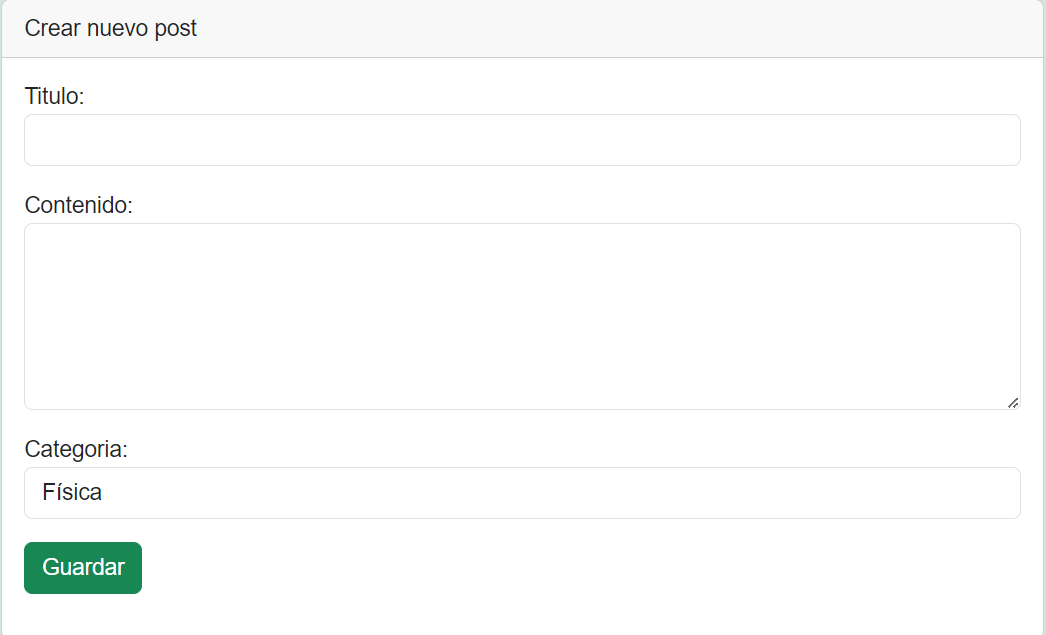
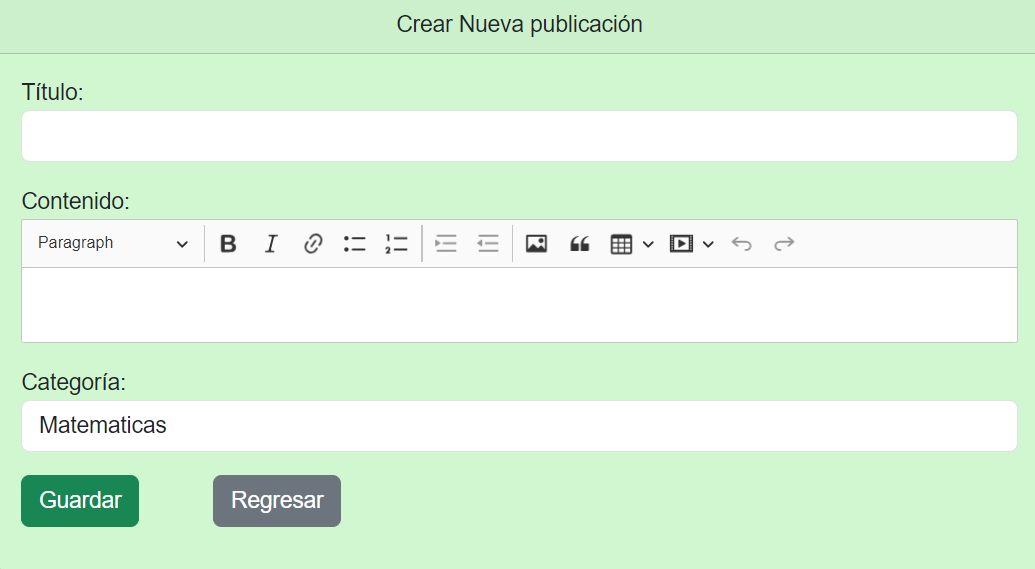
:art:

diff --git a/resources/views/home.blade.php b/resources/views/home.blade.php
@@ -3,81 +3,81 @@
 @section('content')
 <div class="container">
     <div class="row justify-content-center">
-        <div class="col-md-9">
+        <div class="col-md-12">
             <div class="card">
                 <div class="card-header">{{ __('Panel') }}</div>
 
-                    <div class="card-body">
-                        @if (session('status'))
-                            <div class="alert alert-success" role="alert">
-                                {{ session('status') }}
-                            </div>
-                        @endif
+                <div class="card-body">
+                    @if (session('status'))
+                        <div class="alert alert-success" role="alert">
+                            {{ session('status') }}
+                        </div>
+                    @endif
 
-                        <h1 class="text-center"><b>{{ __('Bienvenido') }}</b></h1>
-                    </div>
+                    <h1 class="text-center"><b>{{ __('Bienvenido') }}</b></h1>
+                </div>
 
-                
-                    <div class="form-group">
-                        <h3 class="text-center">Ingresa a la vista que deseas</h3>
-                            <div class="row">
-                                <div class="col-md-6">
-                                    <div class="card mb-2 mx-1">
-                                        <img src="{{ asset('images/crear.jpg') }}" class="card-img-top" alt="imagen vista crear">
-                                        <div class="card-header">
-                                            Crear categoria
-                                        </div>
-                                        <div class="card-body">
-                                        <p class="card-text">Ingresa para crear y guardar la categoria deseada.</p>
-                                            <a href="{{ route('categories.create') }}" class="btn btn-primary">Ingresar</a>
-                                        </div>
+                <div class="form-group">
+                    <h3 class="text-center">Ingresa a la vista que deseas</h3>
+                    <!-- Agregue un contenedor para aplicar el margen -->
+                    <div class="mx-4"> 
+                        <div class="row">
+                            <div class="col-md-6 mb-3">
+                                <div class="card">
+                                    <img src="{{ asset('images/crear.png') }}" class="card-img-top" alt="imagen vista crear">
+                                    <div class="card-header">
+                                        Crear categoría
                                     </div>
-                                </div>
-
-                                <div class="col-md-6">
-                                    <div class="card mb-2 mx-1">
-                                        <img src="{{ asset('images/index.jpg') }}" class="card-img-top" alt="imagen vista index">
-                                        <div class="card-header">
-                                            Lista de categorias
-                                        </div>
-                                        <div class="card-body">
-                                            <p class="card-text">Ingresa y visualiza las categorias creadas.</p>
-                                            <a href="{{ route('categories.index') }}" class="btn btn-primary">Ingresar</a>
-                                        </div>
+                                    <div class="card-body">
+                                        <p class="card-text">Ingresa para crear y guardar la categoría deseada.</p>
+                                        <a href="{{ route('categories.create') }}" class="btn btn-primary">Ingresar</a>
                                     </div>
                                 </div>
                             </div>
 
-                            <div class="row">
-                                <div class="col-md-6">
-                                     <div class="card mb-2 mx-2">
-                                        <img src="{{ asset('images/pcrear.png') }}" class="card-img-top" alt="imagen vista post crear">
-                                        <div class="card-header">
-                                            Crear publicacion
-                                        </div>
-                                        <div class="card-body">
-                                            <p class="card-text">Ingresa y crea una plublicación a la categoria deseada.</p>
-                                            <a href="{{ route('posts.create') }}" class="btn btn-primary">Ingresar</a>
-                                        </div>
+                            <div class="col-md-6 mb-3">
+                                <div class="card">
+                                    <img src="{{ asset('images/index.png') }}" class="card-img-top" alt="imagen vista index">
+                                    <div class="card-header">
+                                        Lista de categorías
+                                    </div>
+                                    <div class="card-body">
+                                        <p class="card-text">Ingresa y visualiza las categorías creadas.</p>
+                                        <a href="{{ route('categories.index') }}" class="btn btn-primary">Ingresar</a>
+                                    </div>
+                                </div>
+                            </div>
+                        </div>
+
+                        <div class="row">
+                            <div class="col-md-6 mb-3">
+                                <div class="card">
+                                    <img src="{{ asset('images/pcrear.png') }}" class="card-img-top" alt="imagen vista post crear">
+                                    <div class="card-header">
+                                        Crear publicación
+                                    </div>
+                                    <div class="card-body">
+                                        <p class="card-text">Ingresa y crea una publicación en la categoría deseada.</p>
+                                        <a href="{{ route('posts.create') }}" class="btn btn-primary">Ingresar</a>
                                     </div>
                                 </div>
                             </div>
 
-                            <div class="col-md-6">
-                                 <div class="card mb-2 mx-1">
+                            <div class="col-md-6 mb-3">
+                                <div class="card">
                                     <img src="{{ asset('images/pindex.png') }}" class="card-img-top" alt="imagen vista post crear">
                                     <div class="card-header">
                                         Lista de publicaciones
                                     </div>
                                     <div class="card-body">
-                                        <p class="card-text">Ingresa y visualiza la lista de publicaciones que tienen las diferentes categorias.</p>
+                                        <p class="card-text">Ingresa y visualiza la lista de publicaciones en las diferentes categorías.</p>
                                         <a href="{{ route('posts.index') }}" class="btn btn-primary">Ingresar</a>
                                     </div>
-                                 </div>
+                                </div>
                             </div>
-                         </div>
+                        </div>
                     </div>
-                </div>   
+                </div>
             </div>
         </div>
     </div>

diff --git a/resources/views/posts/show.blade.php b/resources/views/posts/show.blade.php
@@ -2,21 +2,36 @@
 
 @section('content')
 <div class="container">
-    <h1>{{ $post->title }}</h1>
-    <td>{!! html_entity_decode($post->content) !!}</td>
-    @if ($post->category)
-            <p>Categoría: {{ $post->category->category_name }}</p>
-        @else
-            <p>Este post no tiene una categoría asignada.</p>
-        @endif
-    <p>Fecha de creación: {{ $post->created_at }}</p>
-    <p>Fecha de actualización: {{ $post->updated_at }}</p>
-    <a href="{{ route('posts.edit', $post->id) }}" class="btn btn-primary mb-3">Editar</a>
-    <form action="{{ route('posts.destroy', $post->id) }}" method="POST">
-        @csrf
-        @method('DELETE')
-        <button type="submit" class="btn btn-danger mb-3">Eliminar</button>
-        <a href="{{ route('posts.index') }}" class="btn btn-secondary mx-5 mb-3">Regresar</a>
-    </from>
+    <div class="card" style="background-color: #d1f7d1;">
+        <div class="card-header">
+            <h1 class="card-title">{{ $post->title }}</h1>
+        </div>
+        <div class="card-body">
+            <p class="card-text">{!! html_entity_decode($post->content) !!}</p>
+            <hr>
+            <div class="row">
+                <div class="col-md-6">
+                    @if ($post->category)
+                        <p><strong>Categoría:</strong> {{ $post->category->category_name }}</p>
+                    @else
+                        <p><strong>Categoría:</strong> Este post no tiene una categoría asignada.</p>
+                    @endif
+                </div>
+                <div class="col-md-6 text-md-end">
+                    <p><strong>Fecha de creación:</strong> {{ $post->created_at }}</p>
+                    <p><strong>Fecha de actualización:</strong> {{ $post->updated_at }}</p>
+                </div>
+            </div>
+        </div>
+        <div class="card-footer d-flex justify-content-start align-items-center">
+            <a href="{{ route('posts.index') }}" class="btn btn-secondary me-2">Regresar</a>
+            <a href="{{ route('posts.edit', $post->id) }}" class="btn btn-primary me-2">Editar</a>
+            <form action="{{ route('posts.destroy', $post->id) }}" method="POST">
+                @csrf
+                @method('DELETE')
+                <button type="submit" class="btn btn-danger">Eliminar</button>
+            </form>
+        </div>
+    </div>
 </div>
 @endsection

diff --git a/resources/views/layouts/app.blade.php b/resources/views/layouts/app.blade.php
@@ -2,7 +2,7 @@
 <html lang="en">
 <head>
     <meta charset="UTF-8">
-    <link href="{{ asset('images/logo.jpeg') }}" rel="logo"/>
+    <link rel="shortcut icon" href="{{ asset('images/logo.jpeg') }}" type="image/jpeg">
     <meta name="viewport" content="width=device-width, initial-scale=1.0">
     <meta http-equiv="X-UA-Compatible" content="ie=edge">
 
@@ -16,7 +16,7 @@
         .container{
             margin-top: 50px;
             margin-bottom: 50px;
-            background-color: #d1e7dd;
+            background-color: #aed9ae;
         }
     </style>
     <script src="https://cdn.ckeditor.com/ckeditor5/23.0.0/classic/ckeditor.js"></script>
@@ -57,7 +57,7 @@
                         @else
                             <li class="nav-item dropdown">
                                 <a id="navbarDropdown" class="nav-link dropdown-toggle" href="#" role="button" data-bs-toggle="dropdown" aria-haspopup="true" aria-expanded="false" v-pre>
-                                    {{ Auth::user()->name }}
+                                    {{ Auth::user()->name }} {{ Auth::user()->lastname }}
                                 </a>
 
                                 <div class="dropdown-menu dropdown-menu-end" aria-labelledby="navbarDropdown">

diff --git a/resources/views/posts/create.blade.php b/resources/views/posts/create.blade.php
@@ -4,8 +4,8 @@
 <div class="container">
         <div class="row justify-content-center">
             <div class="col-md-8">
-                <div class="card">
-                    <div class="card-header">Crear Nuevo Post</div>
+                <div class="card" style="background-color: #d1f7d1;">
+                    <div class="card-header text-center">Crear Nueva publicación</div>
 
                     <div class="card-body">
                         <form method="POST" action="{{ route('posts.store') }}">
